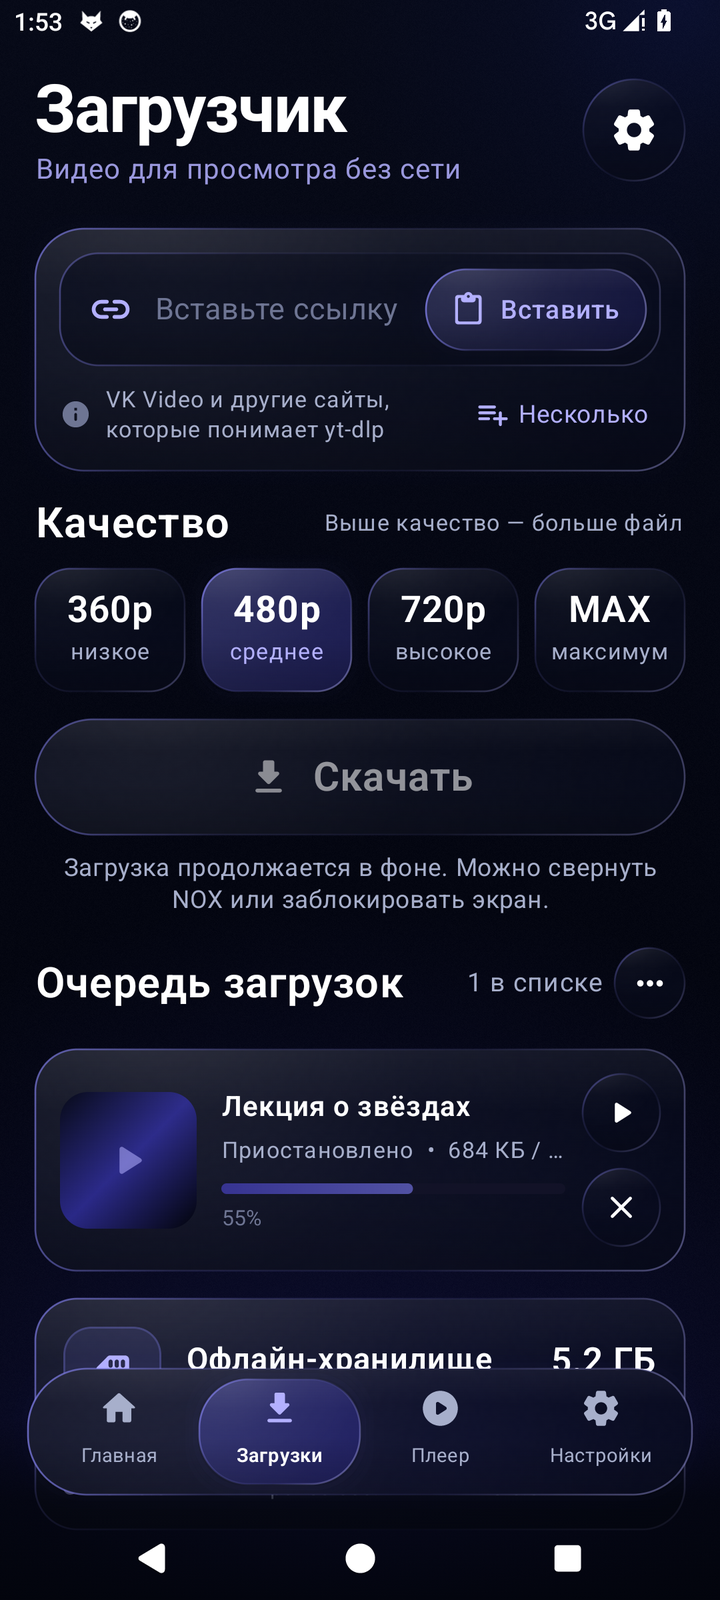
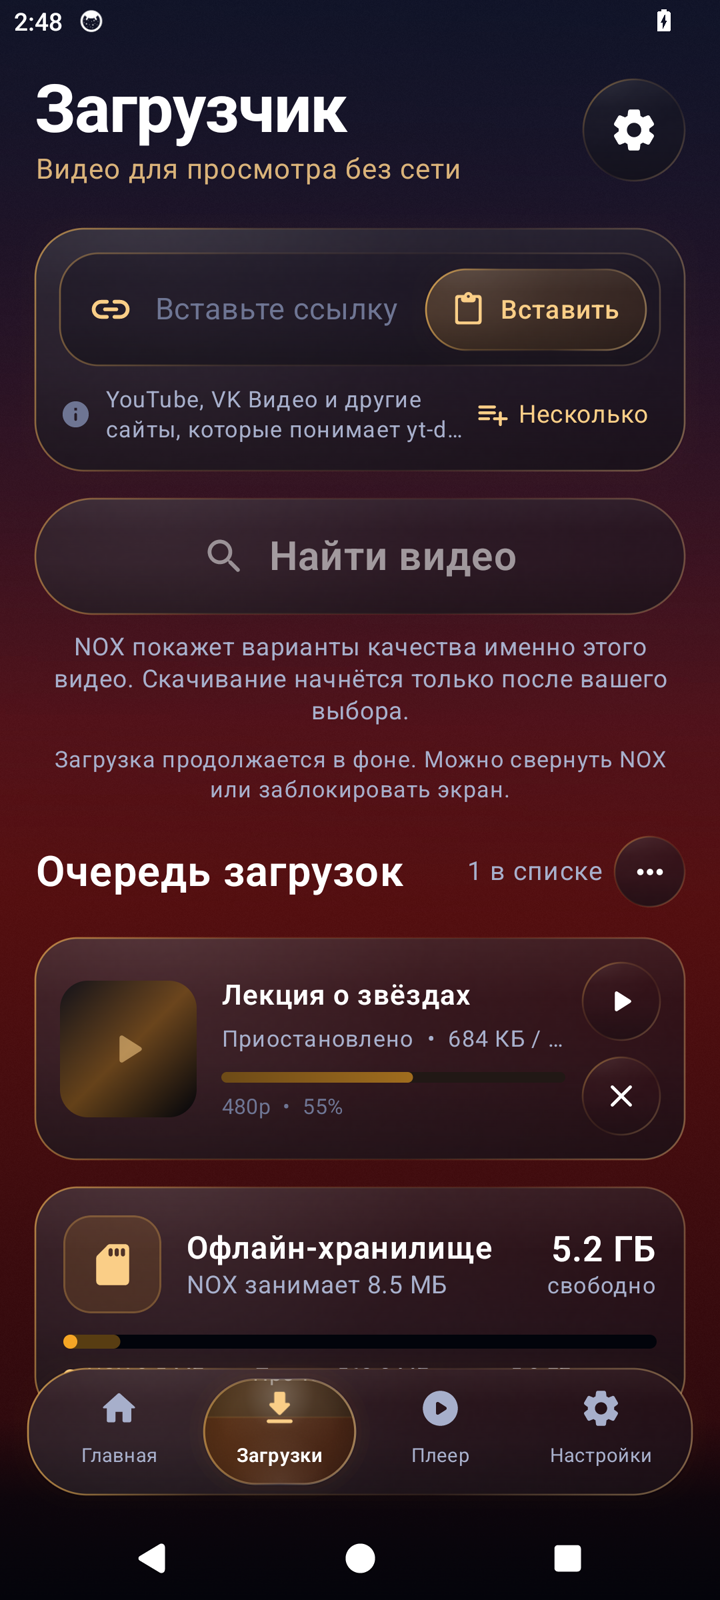
Android 0.3.0: снимки экрана, подпись частоты кадров, тесты на медленном эмуляторе
- снимки 0.3.0: экран загрузок после обновления с 0.2.1, пакет ссылок,
  качество по умолчанию, список вариантов (записанный ответ YouTube),
  оформление с новой строкой варианта
- «60 к/с» не дублируется рядом с «1440p60»
- снимки из инструментальных тестов пишутся без оболочки (dd), таймауты
  плеера рассчитаны на эмулятор без ускорения

Claude-Session: https://claude.ai/code/session_013pNjq6cn2YdQAuRQYLSNyp

diff --git a/android/app/src/androidTest/java/com/nox/offline/ui/VariantListUiTest.kt b/android/app/src/androidTest/java/com/nox/offline/ui/VariantListUiTest.kt
@@ -2,6 +2,7 @@ package com.nox.offline.ui
 
 import android.graphics.Bitmap
 import android.os.ParcelFileDescriptor
+import androidx.compose.foundation.background
 import androidx.compose.foundation.layout.Column
 import androidx.compose.foundation.layout.padding
 import androidx.compose.foundation.layout.width
@@ -11,6 +12,7 @@ import androidx.compose.runtime.getValue
 import androidx.compose.runtime.mutableStateOf
 import androidx.compose.runtime.setValue
 import androidx.compose.ui.Modifier
+import androidx.compose.ui.graphics.Color
 import androidx.compose.ui.graphics.asAndroidBitmap
 import androidx.compose.ui.test.captureToImage
 import androidx.compose.ui.test.hasText
@@ -59,7 +61,7 @@ class VariantListUiTest {
     private fun show(c: FormatCatalog) {
         selected = c.preselect(1080)?.key
         rule.setContent {
-            Column(Modifier.width(400.dp).verticalScroll(rememberScrollState()).padding(12.dp)) {
+            Column(Modifier.width(400.dp).background(Color(0xFF1A1320)).verticalScroll(rememberScrollState()).padding(12.dp)) {
                 VideoDetailsCard(c.details)
                 LanguageChips(c, {})
                 VariantList(c, selected, expanded, { selected = it }, { expanded = if (expanded == it) null else it })
@@ -71,7 +73,9 @@ class VariantListUiTest {
         runCatching {
             val bmp = rule.onRoot().captureToImage().asAndroidBitmap()
             val bytes = ByteArrayOutputStream().also { bmp.compress(Bitmap.CompressFormat.PNG, 100, it) }.toByteArray()
-            val fds = instr.uiAutomation.executeShellCommandRw("sh -c 'mkdir -p /data/local/tmp/nox-shots && cat > /data/local/tmp/nox-shots/$name.png'")
+            // Без оболочки: каталог создаёт mkdir, файл пишет dd из stdin.
+            instr.uiAutomation.executeShellCommand("mkdir -p /data/local/tmp/nox-shots").close()
+            val fds = instr.uiAutomation.executeShellCommandRw("dd of=/data/local/tmp/nox-shots/$name.png")
             ParcelFileDescriptor.AutoCloseOutputStream(fds[1]).use { it.write(bytes) }
             ParcelFileDescriptor.AutoCloseInputStream(fds[0]).use { it.readBytes() }
         }

diff --git a/android/app/src/androidTest/java/com/nox/offline/MediaMergerDeviceTest.kt b/android/app/src/androidTest/java/com/nox/offline/MediaMergerDeviceTest.kt
@@ -165,7 +165,7 @@ class MediaMergerDeviceTest {
             pl.setMediaItem(MediaItem.fromUri(android.net.Uri.fromFile(out)))
             pl.prepare()
         }
-        assertTrue("плеер не готов", ready.await(20, TimeUnit.SECONDS))
+        assertTrue("плеер не готов", ready.await(90, TimeUnit.SECONDS))
         error.get()?.let { throw AssertionError("ошибка плеера", it) }
         var duration = 0L
         instr.runOnMainSync {
@@ -174,7 +174,7 @@ class MediaMergerDeviceTest {
             player!!.seekTo(2_000)
         }
         assertTrue("длительность $duration", duration in 2_500L..3_500L)
-        assertTrue("перемотка не завершилась", seeked.await(20, TimeUnit.SECONDS))
+        assertTrue("перемотка не завершилась", seeked.await(90, TimeUnit.SECONDS))
         error.get()?.let { throw AssertionError("ошибка плеера", it) }
         var pos = 0L
         instr.runOnMainSync { pos = player!!.currentPosition; player!!.release() }

diff --git a/android/app/src/androidTest/java/com/nox/offline/RealYoutubeUiDeviceTest.kt b/android/app/src/androidTest/java/com/nox/offline/RealYoutubeUiDeviceTest.kt
@@ -62,7 +62,9 @@ class RealYoutubeUiDeviceTest {
         runCatching {
             val bmp = compose.onRoot().captureToImage().asAndroidBitmap()
             val bytes = ByteArrayOutputStream().also { bmp.compress(Bitmap.CompressFormat.PNG, 100, it) }.toByteArray()
-            val fds = instr.uiAutomation.executeShellCommandRw("sh -c 'mkdir -p /data/local/tmp/nox-shots && cat > /data/local/tmp/nox-shots/$name.png'")
+            // Без оболочки: каталог создаёт mkdir, файл пишет dd из stdin.
+            instr.uiAutomation.executeShellCommand("mkdir -p /data/local/tmp/nox-shots").close()
+            val fds = instr.uiAutomation.executeShellCommandRw("dd of=/data/local/tmp/nox-shots/$name.png")
             ParcelFileDescriptor.AutoCloseOutputStream(fds[1]).use { it.write(bytes) }
             ParcelFileDescriptor.AutoCloseInputStream(fds[0]).use { it.readBytes() }
         }

diff --git a/android/app/src/main/java/com/nox/offline/ui/downloads/VariantList.kt b/android/app/src/main/java/com/nox/offline/ui/downloads/VariantList.kt
@@ -175,7 +175,8 @@ fun VariantRow(
                 Row(verticalAlignment = Alignment.CenterVertically) {
                     Text(v.title, color = if (enabled) Nox.TextPrimary else Nox.TextMuted,
                         fontSize = if (compact) 16.sp else 19.sp, fontWeight = FontWeight.SemiBold, maxLines = 1)
-                    if (v.fps > 0) {
+                    // «60» уже в заголовке (1440p60); отдельно показываем обычную частоту: 24, 25, 30 к/с.
+                    if (v.fps in 1..30) {
                         HSpace(8)
                         Muted("${v.fps} к/с", size = 12.sp, color = Nox.TextSecondary, maxLines = 1)
                     }

diff --git a/android/docs/screenshots/README.md b/android/docs/screenshots/README.md
@@ -1,15 +1,34 @@
-# Снимки экрана NOX 0.2.0
+# Снимки экрана NOX
 
 Настоящие снимки с эмулятора Android 14 (API 34, x86_64, 1080×2400,
-уменьшены до 720×1600). Эмулятор работал без аппаратного ускорения.
+уменьшены до ширины 720). Эмулятор работал без аппаратного ускорения и
+без доступа в интернет.
 
-- Приложение — отладочная сборка того же кода, что и релиз 0.2.0.
+## 0.3.0
+
+- `nox-02-downloads.png` — экран загрузок 0.3.0 после обновления поверх
+  настоящей 0.2.1 с данными: поле ссылки, «Найти видео» вместо кнопок
+  360/480/720/MAX, в очереди — задание 0.2.1 на паузе с сохранённой частью,
+  тема «Янтарь» и свой фон перенесены.
+- `nox-05-batch-links.png` — «Несколько ссылок»: у каждой ссылки будет свой
+  разбор и свой выбор качества.
+- `nox-10-download-settings.png` — «Качество по умолчанию» (только
+  предварительный выбор) вместо фиксированной кнопки.
+- `nox-11-quality-variants.png` — список вариантов качества. Это
+  компоненты приложения, отрисованные инструментальным тестом
+  `VariantListUiTest` на **записанном** ответе YouTube (yt-dlp 2026.08.19,
+  ролик Big Buck Bunny 60fps с 1440p и 2160p). Живой запрос к YouTube с
+  эмулятора сделать было нельзя: у эмулятора не было сети, а сеть CI YouTube
+  отклонил проверкой «не бот». Цвета — палитра по умолчанию, вне темы.
+- `nox-06-appearance.png` — «Оформление»: в предпросмотре вместо кнопок
+  качества показана строка варианта.
+
+## 0.2.0 (не менялись)
+
 - Данные тестовые. Видео сгенерированы заранее, база 0.1.0 заполнена
-  вручную, затем 0.1.0 обновлена до 0.2.0 без удаления данных. Поэтому
-  на снимках видны перенесённые позиции просмотра и загрузка на паузе.
-- Режим стекла на большинстве снимков — «Экономичный». Программный
-  рендерер эмулятора падал при «живом» размытии (RenderEffect). Снимок
+  вручную, затем 0.1.0 обновлена до 0.2.0 без удаления данных.
+- Режим стекла на большинстве снимков — «Экономичный». Снимок
   `nox-04-video-menu-live-glass.png` сделан в режиме «Авто» с живым
-  размытием, до того как эмулятор упал.
+  размытием.
 - `nox-08-picture-in-picture.png` — плеер в окне «картинка в картинке»
   на рабочем столе Android.
